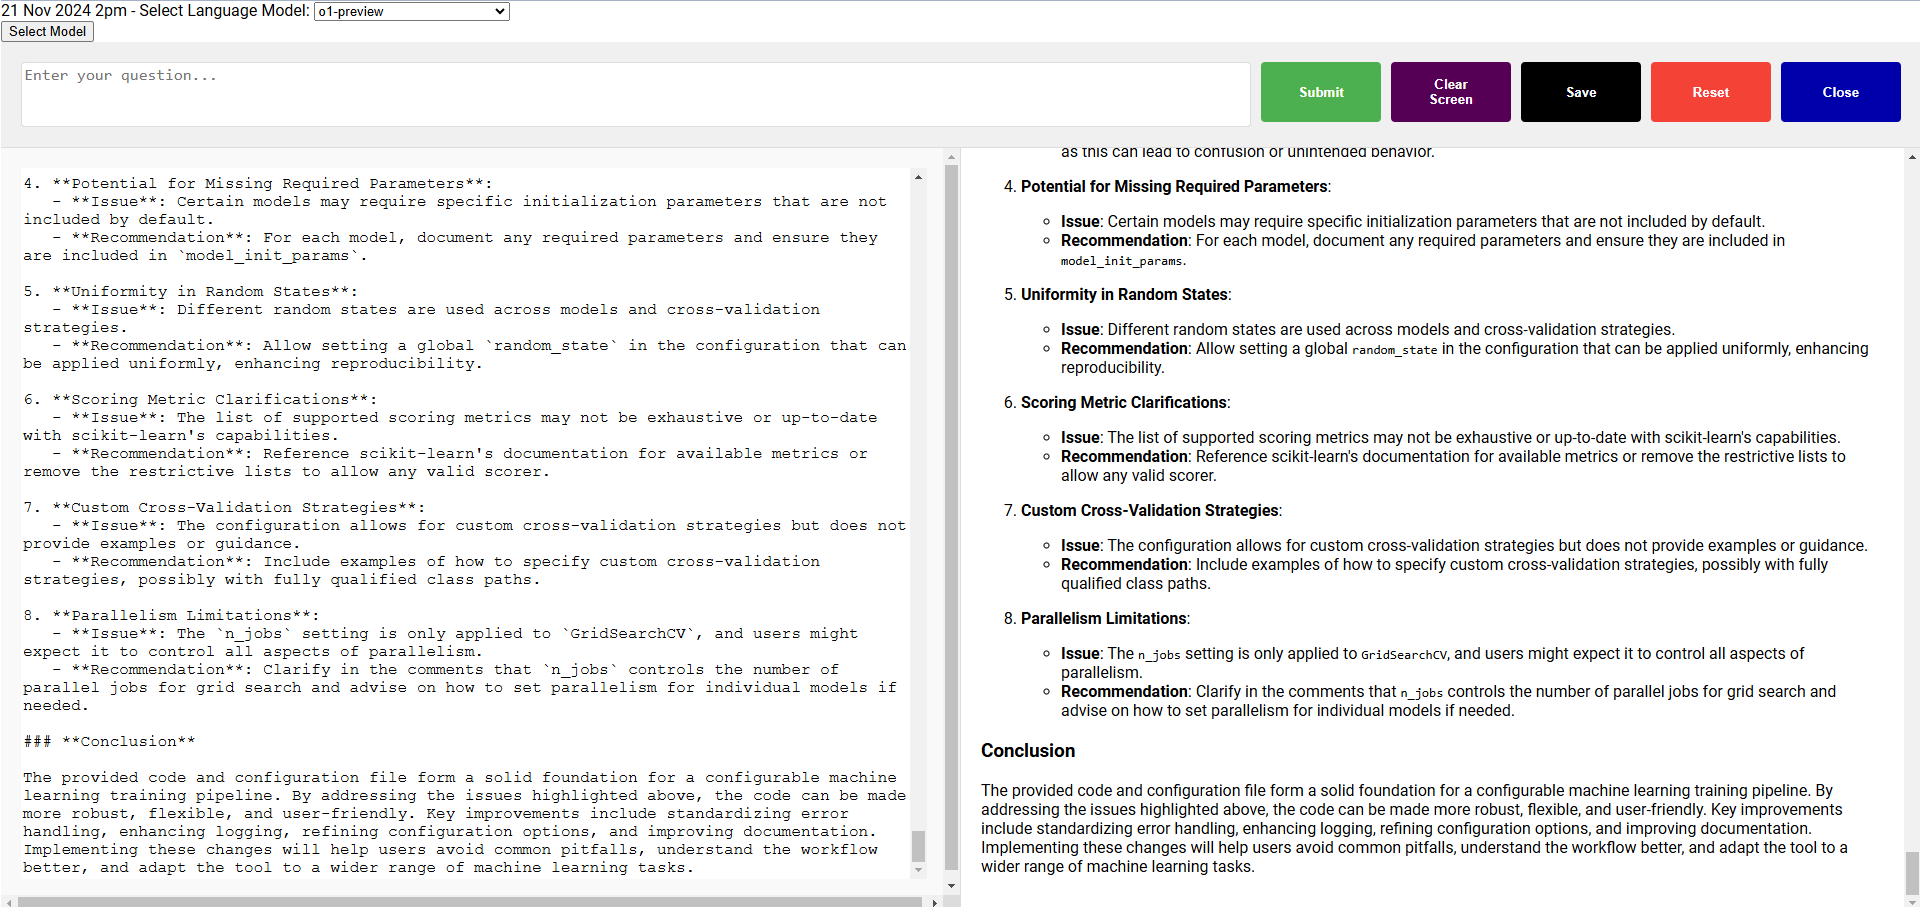
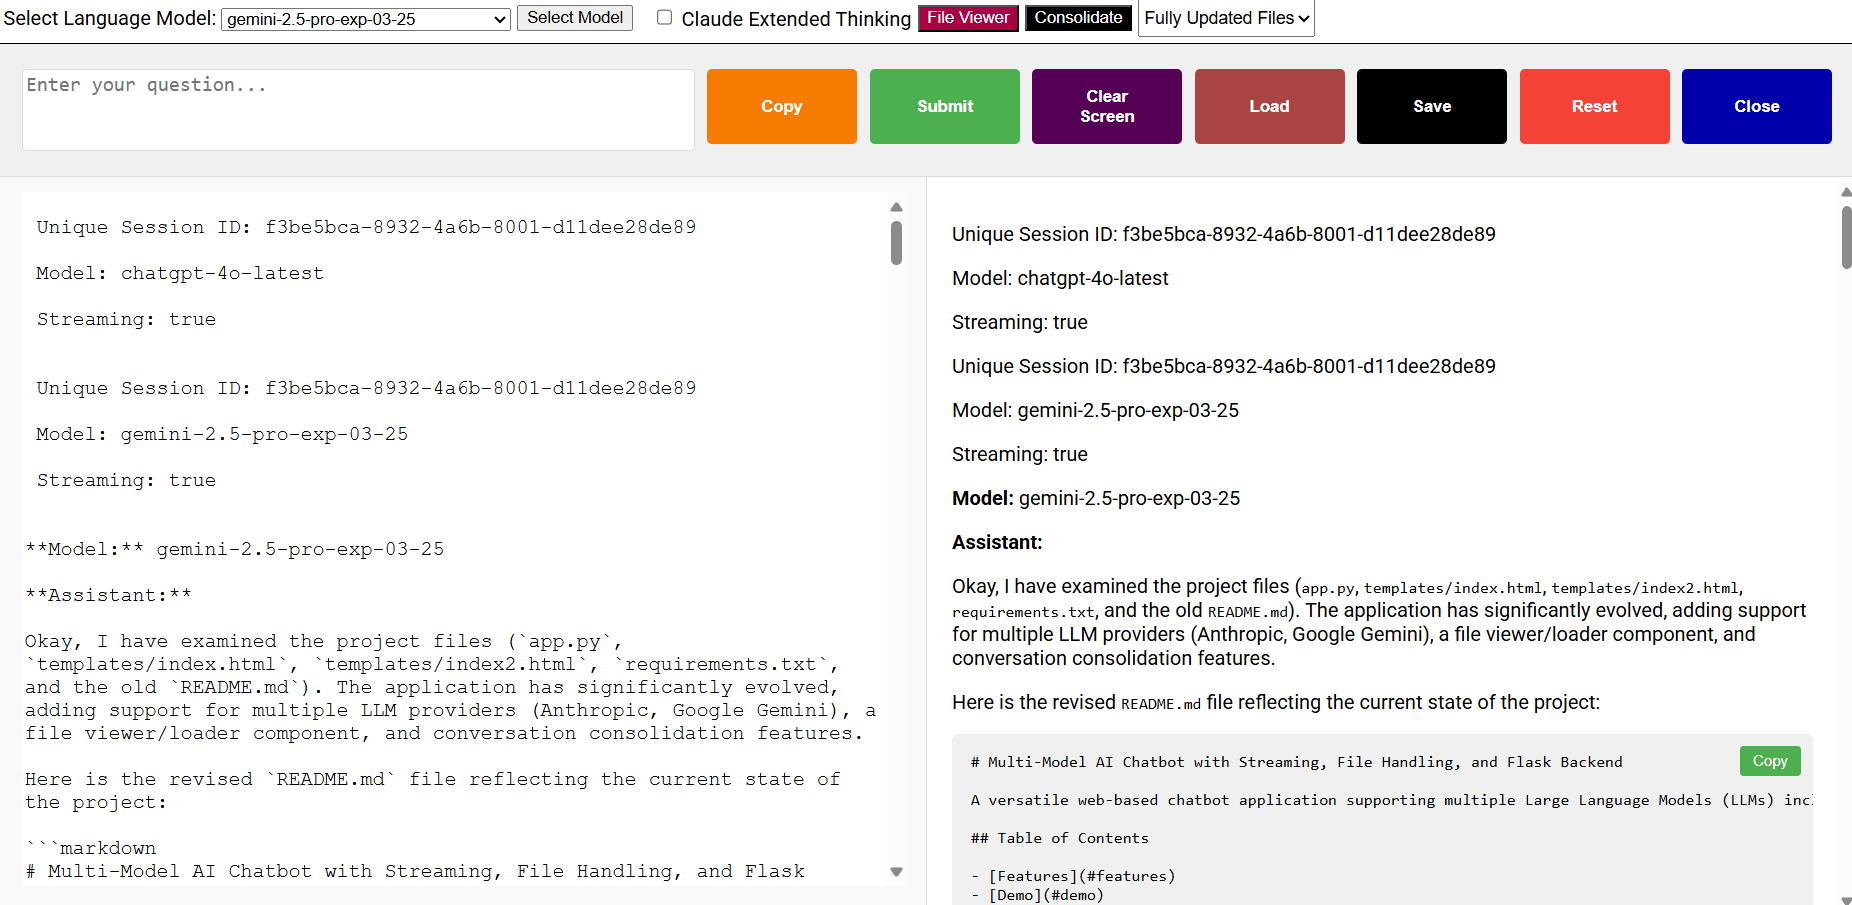
8 Apr 113am

Changed region(s): [[0.0, 0.0, 1.0, 1.0], [0.9849, 0.9282, 1.0, 1.0], [0.9849, 0.2166, 1.0, 0.3094]]

diff --git a/README.md b/README.md
@@ -1,6 +1,6 @@
-# OpenAI Streaming Chatbot with Flask Backend
+# Multi-Model AI Chatbot with Streaming, File Handling, and Flask Backend
 
-A web-based chatbot application powered by OpenAI's API, featuring real-time streaming responses. Built with Python's Flask framework for the backend and a responsive frontend using HTML, CSS, and JavaScript.
+A versatile web-based chatbot application supporting multiple Large Language Models (LLMs) including OpenAI (GPT, O1), Anthropic (Claude), and Google (Gemini). It features real-time streaming responses (where available), conversation management (save, load, reset), Markdown rendering with code highlighting and MathJax support, and a unique integrated file viewer to load local file contents directly into the chat context.
 
 ## Table of Contents
 
@@ -9,26 +9,47 @@ A web-based chatbot application powered by OpenAI's API, featuring real-time str
 - [Installation](#installation)
   - [Prerequisites](#prerequisites)
   - [Setup](#setup)
+  - [Updating Requirements](#updating-requirements)
 - [Configuration](#configuration)
 - [Usage](#usage)
   - [Accessing the Chatbot](#accessing-the-chatbot)
+  - [Selecting a Model](#selecting-a-model)
   - [Interacting with the Chatbot](#interacting-with-the-chatbot)
+  - [Using the File Viewer](#using-the-file-viewer)
+  - [Using Conversation Consolidation](#using-conversation-consolidation)
   - [Managing Conversations](#managing-conversations)
   - [Server Shutdown](#server-shutdown)
 - [Project Structure](#project-structure)
 - [How It Works](#how-it-works)
   - [Backend (Flask)](#backend-flask)
-  - [Frontend](#frontend)
+  - [Frontend (Main Chat)](#frontend-main-chat)
+  - [Frontend (File Viewer)](#frontend-file-viewer)
 - [Troubleshooting](#troubleshooting)
 - [License](#license)
 
 ## Features
 
-- **Real-Time Streaming:** Receive responses from OpenAI's API as they're generated.
-- **Conversation Saving:** Save conversations for future reference.
-- **Responsive Interface:** Intuitive UI built with modern web technologies.
-- **Markdown & Math Support:** Render rich text, code snippets, and mathematical equations.
-- **Secure Shutdown:** Terminate the server gracefully when done.
+-   **Multi-Model Support:** Interact with various LLMs:
+    -   OpenAI: `gpt-4o-latest`, `gpt-4o`, `gpt-4.5-preview`, `o1-pro`, `o1`, `o3-mini`
+    -   Anthropic: `claude-3-7-sonnet-20250219`
+    -   Google: `gemini-2.0-flash-thinking-exp-01-21`, `gemini-2.5-pro-exp-03-25`
+-   **Real-Time Streaming:** Receive responses as they are generated for supported models (most GPT, Claude, Gemini models).
+-   **File Viewer & Loader:** Browse local directories (via a server-side dialog), select relevant code/text files (`.py`, `.js`, `.html`, `.css`, `.md`, `.txt`, etc.), and load their concatenated content directly into the chat context for analysis or modification.
+-   **Conversation Management:**
+    -   Save conversations (both message history in JSON and full chat log in Markdown).
+    -   Load previous conversations into a new session.
+    -   Reset the current conversation branch while preserving history.
+-   **Conversation Consolidation:** Start a new chat session pre-filled with a prompt to consolidate, refactor, critique, or summarize the previous conversation, especially useful after loading project files.
+-   **Rich Text Rendering:** Displays responses with Markdown formatting, syntax highlighting for code blocks (via Highlight.js), and mathematical equations (via MathJax).
+-   **Model-Specific Features:** Toggle Anthropic's "Extended Thinking" feature.
+-   **Convenient UI:**
+    -   Editor/Preview split view.
+    -   Auto-resizing input text area.
+    -   "Copy" buttons for the user prompt (including loaded file content) and individual code blocks in the response.
+    -   Model selection dropdown.
+-   **Server-Side Sessions:** Manages conversation history per browser tab/session using unique IDs.
+-   **Configurable System Prompt:** Easily modify the initial system message in `app.py`.
+-   **Graceful Shutdown:** Option to terminate the server from the UI.
 
 ## Demo
 
@@ -38,161 +59,201 @@ A web-based chatbot application powered by OpenAI's API, featuring real-time str
 
 ### Prerequisites
 
-- **Python 3.7 or higher**
-- **pip** (Python package installer)
-- **Git** (for cloning the repository)
+-   **Python 3.7 or higher**
+-   **pip** (Python package installer)
+-   **Git** (for cloning the repository)
+-   **(Optional) Tkinter:** Required by the backend for the "Open Folder" dialog. This is usually included with standard Python installations, but might need separate installation on some minimal Linux environments (`sudo apt-get install python3-tk`).
 
 ### Setup
 
-1. **Clone the Repository**
+1.  **Clone the Repository**
 
-   ```bash
-   git clone https://github.com/EjayNg-AI/openai-flask-chatbot.git
-   cd openai-flask-chatbot
-   ```
+    ```bash
+    git clone <your-repository-url>
+    cd <your-repository-directory>
+    ```
 
-2. **Create a Virtual Environment**
+2.  **Create a Virtual Environment**
 
-   It's recommended to use a virtual environment to manage dependencies.
+    It's highly recommended to use a virtual environment.
 
-   ```bash
-   python3 -m venv venv
-   source venv/bin/activate  # On Windows: venv\Scripts\activate
-   ```
+    ```bash
+    python3 -m venv venv
+    source venv/bin/activate  # On Windows: venv\\Scripts\\activate
+    ```
 
-3. **Install Dependencies**
+3.  **Install Dependencies**
 
-   ```bash
-   pip install -r requirements.txt
-   ```
+    ```bash
+    pip install -r requirements.txt
+    ```
 
-4. **Set Up Environment Variables**
+4.  **Set Up Environment Variables**
 
-   Create a `.env` file in the project root directory and add the following variables:
+    Create a `.env` file in the project root directory. Add the necessary API keys for the models you intend to use and a Flask secret key.
 
-   ```env
-   FLASK_SECRET_KEY=your_flask_secret_key
-   OPENAI_API_KEY=your_openai_api_key
-   ```
+    ```env
+    FLASK_SECRET_KEY=your_strong_random_flask_secret_key
+    OPENAI_API_KEY=your_openai_api_key_here
+    ANTHROPIC_API_KEY=your_anthropic_api_key_here
+    GEMINI_API_KEY=your_google_gemini_api_key_here
+    ```
 
-   - `FLASK_SECRET_KEY`: A secret key for Flask sessions.
-   - `OPENAI_API_KEY`: Your OpenAI API key.
+    -   `FLASK_SECRET_KEY`: A long, random string for securing Flask sessions. Generate one if needed.
+    -   You only need to provide API keys for the services you plan to use. The application will skip initialization for services without a key.
 
-5. **Run the Application**
+5.  **Run the Application**
 
-   ```bash
-   python app.py
-   ```
+    ```bash
+    python app.py
+    ```
 
-   The server will start on `http://127.0.0.1:5000/`.
+    The server will start using Waitress on `http://127.0.0.1:5000/`.
 
+### Updating Requirements
+
+```text
+anthropic==0.49.0
+Flask==3.1.0
+flask-cors==5.0.1
+Flask-Session==0.8.0
+google==3.0.0
+google-auth==2.38.0
+google-genai==1.8.0
+openai==1.68.2
+python-dotenv==1.0.1
+waitress==3.0.2
+```
 ## Configuration
 
-Ensure the `.env` file contains the necessary environment variables:
-
-- **FLASK_SECRET_KEY:** A strong secret key for securing Flask sessions.
-- **OPENAI_API_KEY:** Your OpenAI API key to access the GPT models.
-
-Example `.env` file:
-
-```env
-FLASK_SECRET_KEY=supersecretkey123
-OPENAI_API_KEY=sk-XXXXXXXXXXXXXXXXXXXXXXXXXXXX
-```
+-   **API Keys & Secret Key:** Configure in the `.env` file as described in the Installation section.
+-   **System Prompt:** The initial instruction given to the chatbot can be modified by changing the `SYSTEM_MESSAGE` constant at the top of `app.py`.
+-   **Conversation Storage:** Conversations are saved in the `conversations/` directory, which is created automatically. Saved files include:
+    -   `[name]messages.json`: Only the user/assistant messages (used for loading).
+    -   `[name].md`: The full chat log rendered as Markdown.
+    -   `[name]all.json`: Internal representation of all messages including system prompts and history branches (used for debugging/internal state).
+-   **Allowed File Extensions:** The file types displayed in the File Viewer are controlled by the `allowed_extensions` set within the `get_directory_structure` function in `app.py`.
 
 ## Usage
 
 ### Accessing the Chatbot
 
-Navigate to `http://127.0.0.1:5000/` in your web browser to access the chatbot interface.
+Navigate to `http://127.0.0.1:5000/` in your web browser. Each browser tab will maintain its own independent session and conversation history.
 
-You may open multiple tab interfaces in your browser, or across multiple browsers.
+### Selecting a Model
+
+-   Use the dropdown menu at the top-left to choose the desired LLM.
+-   Click the **"Select Model"** button to apply the change to the current session. The selected model and streaming status will be logged in the editor pane.
+-   For Claude models, you can check/uncheck the **"Claude Extended Thinking"** checkbox to enable/disable the thinking feature (sends the change to the backend).
 
 ### Interacting with the Chatbot
 
-1. **Enter Your Query:**
-   - Use the input area at the top to type your question or prompt.
-   - The input box auto-resizes based on your input.
+1.  **Enter Your Query:** Type your question or prompt in the text area below the control panel. The area will auto-resize as you type.
+2.  **Add File Context (Optional):** Use the [File Viewer](#using-the-file-viewer) to load content from local files. This content will be appended to your *next* prompt when you click "Submit". Use the "Copy" button next to the input area to verify the full prompt (including file content) that will be sent.
+3.  **Submit:** Click the **"Submit"** button or press `Ctrl + Enter`.
+4.  **View Response:** The response will appear in the editor (raw text) and preview (rendered Markdown/code/math) panes. For streaming models, the response appears token by token.
+5.  **Copy Code:** Use the "Copy" button that appears on code blocks in the preview pane.
 
-2. **Submit Your Query:**
-   - Click the **Submit** button or press `Ctrl + Enter` to send your message.
-   - The chatbot will respond in real-time with streaming output.
+### Using the File Viewer
+
+1.  Click the **"File Viewer"** button in the top controls. This opens a new browser window/tab (`/filecontents`).
+2.  In the new window, click **"Open Folder"**. A *native OS folder selection dialog* will appear (triggered by the backend via Tkinter). Select the project folder you want to browse.
+3.  The left panel will populate with a directory tree, showing only files with allowed extensions (e.g., `.py`, `.js`, `.html`, `.css`, `.md`, `.txt`).
+4.  Check the boxes next to the files whose content you want to load.
+5.  Click **"Load Selection"**. The concatenated content of the selected files (with separators indicating file paths) will appear in the right panel of the File Viewer window.
+6.  Simultaneously, this concatenated content is sent back to the *main chat window* and stored internally. It will be automatically appended to the *next* prompt you submit in the main chat window.
+7.  You can use the **"Refresh"** button in the File Viewer to reload the directory structure if files have changed.
+8.  Close the File Viewer window when done. The loaded content remains available in the main chat window until you submit the next prompt or refresh the main page.
+
+### Using Conversation Consolidation
+
+1.  After having a conversation (potentially involving loaded files), select a task from the **Consolidate dropdown** (e.g., "Fully Updated Files", "Refactor Code", "Critique Code", "Synopsis of Project").
+2.  Click the **"Consolidate"** button.
+3.  A *new chat tab/window* will open. It inherits the *entire conversation history* from the previous tab.
+4.  The query input in the new tab will be pre-filled with a detailed prompt corresponding to the selected consolidation task.
+5.  You can edit the prompt if needed, then click **"Submit"** to have the AI perform the consolidation task based on the conversation history.
 
 ### Managing Conversations
 
-- **Save Conversation:**
-  - Click the **Save** button to store the current conversation.
-  - You'll be prompted to enter a name for the conversation.
-  
-- **Reset Conversation:**
-  - Click the **Reset** button to clear the current conversation and start fresh.
+-   **Save:** Click **"Save"**. Enter a name when prompted. Saves the current conversation state (`messages.json`, `all.json`) and a Markdown log (`.md`) to the `conversations/` directory.
+-   **Load:** Click **"Load"**. Enter the name of a previously saved conversation. A *new browser tab* will open, loading the message history from the corresponding `[name]messages.json` file.
+-   **Reset:** Click **"Reset"**. Clears the current editor/preview panes and starts a new conversation branch within the *same session*. The previous turns are still stored in the backend history for this session ID but won't be sent in subsequent requests unless loaded again.
+-   **Clear Screen:** Click **"Clear Screen"**. Clears the editor and preview panes *visually* but does not affect the backend conversation history like "Reset" does.
 
 ### Server Shutdown
 
-> **⚠ Warning:** The shutdown feature is intended for development purposes only. It should not be included in a production environment.
-
-- **Shut Down the Server:**
-  - Click the **Close** button.
-  - The server will terminate gracefully.
+-   Click the **"Close"** button. This sends a request to the `/shutdown` endpoint.
+-   The backend saves the final state of all active sessions' message history to timestamped files in `conversations/` and then terminates the Python process.
+-   **Warning:** Use this primarily in development. Exposing a shutdown endpoint like this is generally unsafe in production.
 
 ## Project Structure
 
 ```
-openai-flask-chatbot/
-├── app.py
+your-repository-directory/
+├── app.py              # Main Flask application, API logic, LLM clients
 ├── templates/
-│   └── index.html
-├── conversations/
-├── .env
-├── requirements.txt
-└── README.md
-└── screenshot.png
+│   ├── index.html      # Main chat interface HTML/CSS/JS
+│   └── index2.html     # File Viewer interface HTML/CSS/JS
+├── conversations/      # Directory to store saved conversations (.json, .md)
+├── .env                # Environment variables (API keys, Flask secret) - Gitignored
+├── requirements.txt    # Python dependencies
+├── app.log             # Log file (created automatically)
+└── README.md           # This file
 ```
-
-- **app.py:** The main Flask application handling backend logic and API routes.
-- **templates/index.html:** The frontend HTML template for the chatbot interface.
-- **conversations/:** Stores saved conversation data.
-- **.env:** Environment variables configuration file.
-- **requirements.txt:** Python dependencies.
-- **README.md:** Project documentation.
 
 ## How It Works
 
 ### Backend (Flask)
 
-- **Flask Application:** Serves the frontend and handles API routes for streaming responses, saving conversations, and server management.
-- **Session Management:** Utilizes Flask sessions to track conversation history and unique session IDs.
-- **OpenAI Integration:** Communicates with OpenAI's API to generate chatbot responses, enabling streaming of messages for real-time interaction.
-- **Conversation Storage:** Saves conversations in both JSON and Markdown formats for easy retrieval and readability.
-- **Secure Shutdown:** Implements an endpoint to shut down the server gracefully.
+-   **Web Server:** Uses Flask and Waitress to serve HTML pages and handle API requests.
+-   **API Clients:** Initializes clients for OpenAI, Anthropic, and Google GenAI based on provided API keys.
+-   **Routing:** Defines endpoints for the main page (`/`), streaming (`/stream`), saving (`/save`), loading (`/load`), resetting (`/reset`), model selection (`/select_model`), Claude thinking toggle (`/update-claude-thinking`), file viewer (`/filecontents`), folder opening (`/open_folder`), file loading (`/load_selection`), refreshing (`/refresh`), consolidation (`/consolidate`), and shutdown (`/shutdown`).
+-   **Streaming:** Uses Server-Sent Events (SSE) via `stream_with_context` to send chunks of data from the LLM APIs to the frontend in real-time. Handles different streaming mechanisms for each provider.
+-   **Session Management:** Uses Flask-Session with a filesystem backend to manage unique session IDs (`uniqueId`) and store conversation history per session. A global list `message_accumulate` stores messages tagged with `(uniqueId, counter)`.
+-   **Conversation State:** Tracks conversation turns using a `counter`. Resetting increments the counter to branch the history.
+-   **File Handling:**
+    -   Uses `tkinter.filedialog.askdirectory` (server-side) to allow users to select a local folder securely.
+    -   Recursively scans the selected directory, filtering for allowed file extensions.
+    -   Reads selected files and concatenates their content.
+-   **Logging:** Basic logging configured to `app.log`.
 
-### Frontend
+### Frontend (Main Chat - `index.html`)
 
-- **Responsive Design:** Built with HTML, CSS (using Roboto font), and JavaScript to ensure a seamless user experience across devices.
-- **User Interface Components:**
-  - **Control Panel:** Contains input fields and buttons for submitting queries, saving conversations, and resetting or shutting down the server.
-  - **Conversation Display:** Shows the conversation history with support for Markdown rendering, syntax highlighting, and mathematical equations via MathJax.
-- **Real-Time Streaming:** Utilizes Server-Sent Events (SSE) to receive and display streaming responses from the backend.
-- **Enhanced Features:**
-  - **Auto-Resizing Input:** The query input box adjusts its height based on user input.
-  - **Copy Code Snippets:** Allows users to copy code blocks with a single click.
-  - **Markdown Preview:** Renders Markdown content dynamically as the conversation progresses.
+-   **Structure:** HTML defines the layout (model controls, input panel, editor/preview panes). CSS provides styling.
+-   **JavaScript Logic:**
+    -   Fetches a unique session ID (`uniqueId`) on load.
+    -   Handles user input (query text area, button clicks).
+    -   Manages model selection and feature toggles (e.g., Claude thinking).
+    -   Initiates SSE connection to `/stream` for receiving responses.
+    -   Updates the editor pane with raw text and the preview pane with rendered HTML (using Marked.js, Highlight.js, MathJax).
+    -   Communicates with the backend for save, load, reset, shutdown actions.
+    -   Opens the File Viewer (`/filecontents`) in a new window.
+    -   Includes an `updateFileContents` function callable by the File Viewer window (`window.opener`) to receive concatenated file content.
+    -   Handles the "Consolidate" workflow by opening a new tab with inherited history and a pre-filled prompt.
+
+### Frontend (File Viewer - `index2.html`)
+
+-   **Structure:** Simple two-panel layout (directory tree/controls, content preview).
+-   **JavaScript Logic:**
+    -   Communicates with backend endpoints (`/open_folder`, `/refresh`, `/load_selection`).
+    -   Dynamically builds the directory tree view based on data from the backend.
+    -   Tracks selected files.
+    -   Displays concatenated file content received from `/load_selection`.
+    -   Uses `window.opener.updateFileContents(data.result)` to send the loaded content back to the main chat window that opened it.
 
 ## Troubleshooting
 
-- **Missing Environment Variables:**
-  - Ensure all required variables are set in the `.env` file.
-  
-- **OpenAI API Errors:**
-  - Verify that the `OPENAI_API_KEY` is correct and has sufficient permissions.
-  
-- **Port Conflicts:**
-  - If port `5000` is in use, modify the `app.py` to use a different port.
+-   **API Errors:** Ensure the correct API keys are in the `.env` file and that they are valid and have necessary permissions/credits with the respective providers (OpenAI, Anthropic, Google). Check `app.log` for specific error messages from the API clients.
+-   **Tkinter/Folder Dialog Issues:** The "Open Folder" button relies on Tkinter running on the *server*. This may fail in headless environments (like some Docker containers or SSH sessions without X11 forwarding). Ensure Tkinter is installed and accessible in the server environment.
+-   **File Viewer Doesn't Update Main Window:** Ensure the main chat window (`index.html`) remains open while using the File Viewer (`index2.html`). Browser security might prevent communication if the opener window is closed or navigated away. Check the browser's developer console in both windows for errors related to `window.opener`.
+-   **Dependencies:** Make sure all dependencies in the updated `requirements.txt` are installed correctly in your virtual environment.
+-   **Port Conflicts:** If port `5000` is already in use, modify the `serve(app, host='127.0.0.1', port=5000)` line at the bottom of `app.py` to use a different port.
+-   **Permissions:** The application needs write permissions in the project directory to create the `conversations/` folder and save files, and to write to `app.log`.
 
 ## License
 
-This project is licensed under the [MIT License](LICENSE).
+This project is licensed under the MIT License. See the LICENSE file for details (if one exists, otherwise assume standard MIT terms).
 
 ---
 
-**Disclaimer:** This application is for educational and development purposes. Ensure you handle API keys and secret tokens securely, especially in production environments.
+**Disclaimer:** This application interacts with external APIs and local files. Ensure you understand the security implications. Handle API keys securely and be cautious when allowing applications to access local file system data, even indirectly via server-side dialogs. The shutdown feature is intended for development convenience and should be removed or secured in production.
